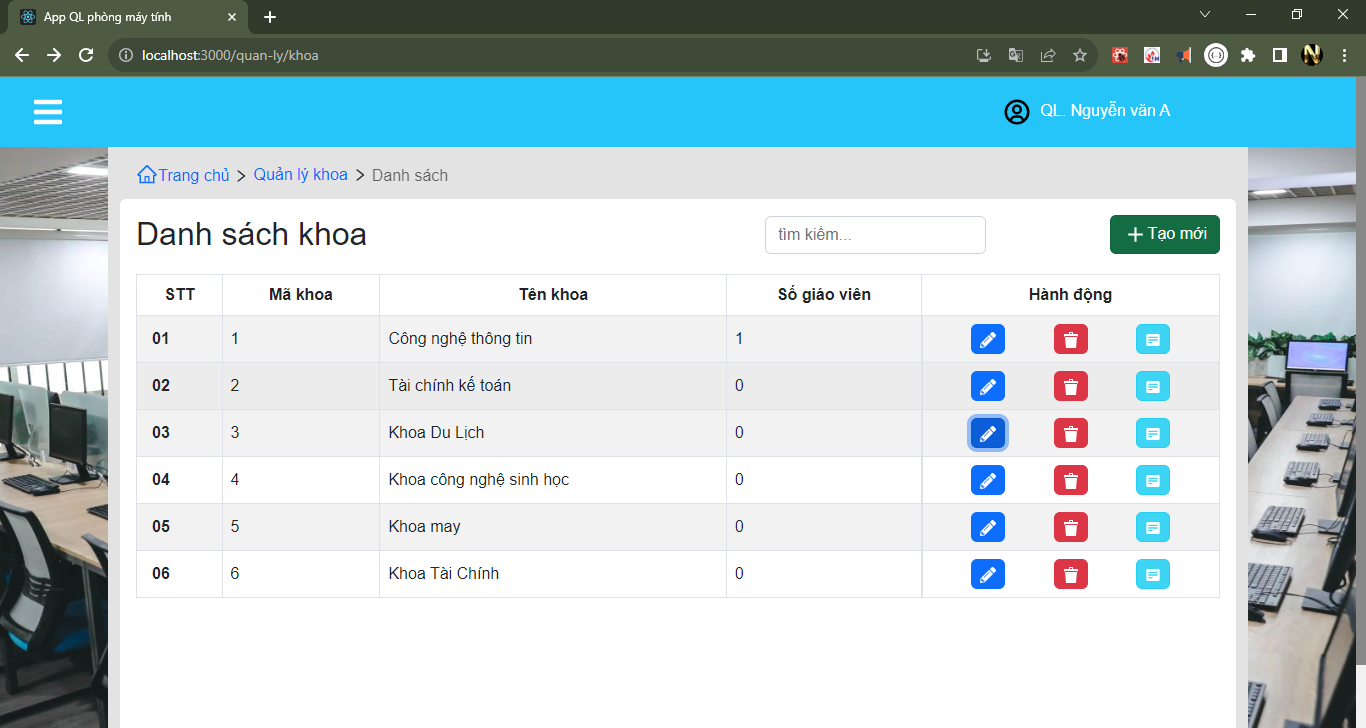
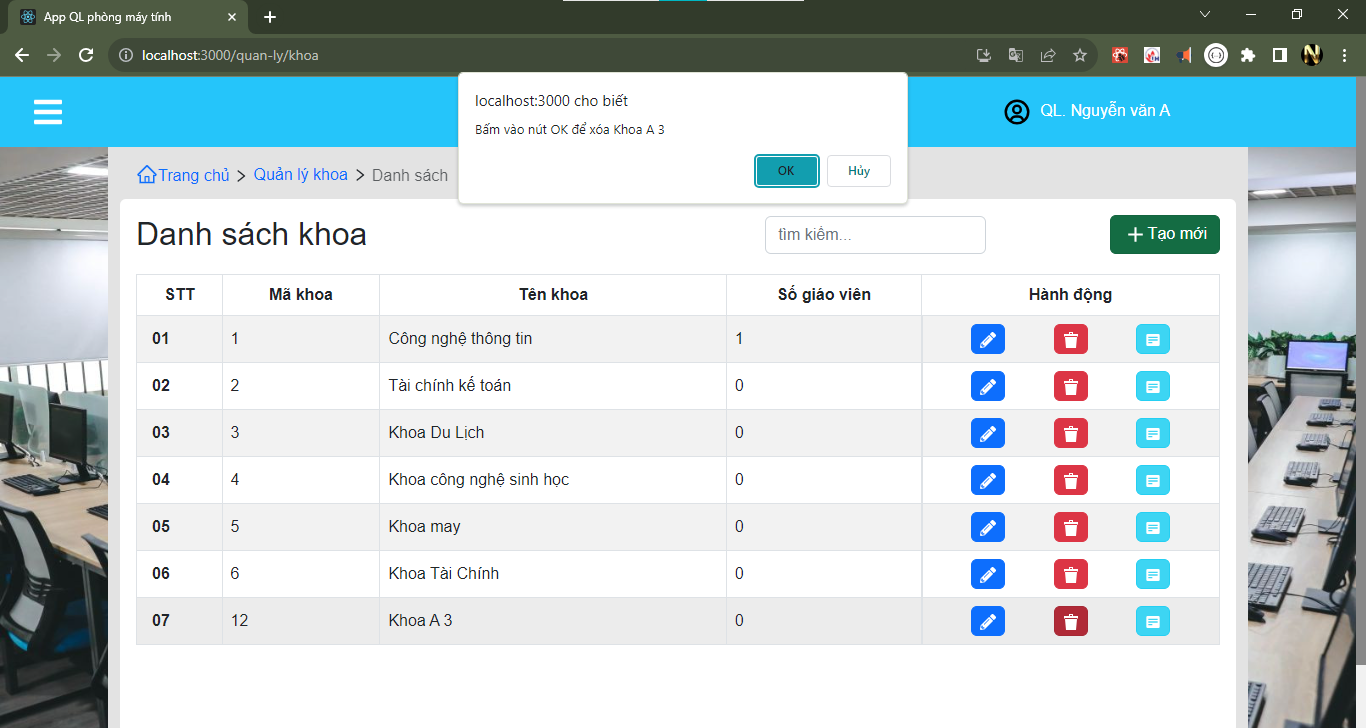
PageQLKhoa: add delete api

diff --git a/src/components/layout/Edit/FormUpdateKhoaModal.jsx b/src/components/layout/Edit/FormUpdateKhoaModal.jsx
@@ -1,7 +1,10 @@
 import React, { useEffect, useRef, useState } from "react";
 import { FaPencilAlt } from "react-icons/fa";
 import { useDispatch, useSelector } from "react-redux";
-import { insertKhoaApi, updateKhoaApi } from "../../../redux/reducers/khoaReducer";
+import {
+  insertKhoaApi,
+  updateKhoaApi,
+} from "../../../redux/reducers/khoaReducer";
 
 export default function FormUpdateKhoaModal({ arrKhoa, objKhoa, keyModal }) {
   const dispatch = useDispatch();
@@ -17,22 +20,23 @@ export default function FormUpdateKhoaModal({ arrKhoa, objKhoa, keyModal }) {
       setErrKhoa({ ...errKhoa, errName: "Hãy nhập dữ liệu!" });
       return;
     }
+    //
+    let a = true;
+    for (let i = 0; i < arrKhoa.length; i++) {
+      const element = arrKhoa[i];
 
-    // let a = true;
-    // arrKhoa.forEach((item) => {
-    //   console.log("🚀 ~ file: FormUpdateKhoaModal.jsx:22 ~ arrKhoa.forEach ~ item:", item)
-    //   if (itemKhoaRef.current.tenKhoa.includes(item.tenKhoa)) {
-    //     alert("Trùng tên khoa!");
-    //     return;
-    //   }
-    // });
-
-    if (
-      itemKhoaRef.current.tenKhoa.toLowerCase() == objKhoa.tenKhoa.toLowerCase()
-    ) {
-      alert("Trùng tên khoa!");
-      return;
+      if (
+        itemKhoaRef.current.tenKhoa.toLowerCase() ==
+        element.tenKhoa.toLowerCase()
+      ) {
+        a = false;
+        alert("Trùng tên khoa!");
+        break;
+      }
     }
+    if (!a) return;
+    //
+
     setErrKhoa({ ...errKhoa, errName: "" });
 
     dispatch(updateKhoaApi(itemKhoaRef.current));
@@ -40,7 +44,7 @@ export default function FormUpdateKhoaModal({ arrKhoa, objKhoa, keyModal }) {
   //
   const handleChangeTenKhoa = (e) => {
     let { id, value } = e.target;
-    itemKhoaRef.current[id] = value;
+    itemKhoaRef.current.tenKhoa = value;
     if (value.trim().length === 0) {
       setErrKhoa({ ...errKhoa, errName: "Hãy nhập dữ liệu!" });
     } else {

diff --git a/src/redux/reducers/khoaReducer.jsx b/src/redux/reducers/khoaReducer.jsx
@@ -61,6 +61,18 @@ const khoaReducer = createSlice({
       let { arrKhoa, valueSearch } = state;
       state.arrKhoaSearch = dataSearch(arrKhoa, valueSearch);
     },
+    deleteKhoaAction: (state, action) => {
+      let maXoa = action.payload;
+
+      let arrUpdate = state.arrKhoa.filter((item) => {
+        return item.maKhoa !== maXoa;
+      });
+
+      state.arrKhoa = [...arrUpdate];
+
+      let { arrKhoa, valueSearch } = state;
+      state.arrKhoaSearch = dataSearch(arrKhoa, valueSearch);
+    },
   },
 });
 // exp nay de sử dụng theo cách 2
@@ -69,10 +81,26 @@ export const {
   setValueSearchKhoa,
   insertKhoaAction,
   updateKhoaAction,
+  deleteKhoaAction,
 } = khoaReducer.actions;
 export default khoaReducer.reducer;
 
 // -------------- Call Api -------------------
+
+/**
+ * delete KhoaApi by id
+ */
+export const deleteKhoaApi = (maXoa) => {
+  return async (dispatch) => {
+    try {
+      await http.delete(`/XoaKhoa/${maXoa}`)
+
+      dispatch(deleteKhoaAction(maXoa));
+    } catch (error) {
+      console.log("🚀 ~ file: khoaReducer.jsx:85 ~ return ~ error:", error);
+    }
+  };
+};
 
 /**
  * edit 1 Khoa

diff --git a/src/pages/PageQuanLy/PageQLKhoa.jsx b/src/pages/PageQuanLy/PageQLKhoa.jsx
@@ -10,6 +10,7 @@ import NavTab from "../../components/common/NavTab/NavTab";
 import { NavLink } from "react-router-dom";
 import { useDispatch, useSelector } from "react-redux";
 import {
+  deleteKhoaApi,
   getAllKhoaApi,
   setObjUpdateKhoaAction,
   setValueSearchKhoa,
@@ -55,7 +56,9 @@ export default function PageQLKhoa() {
 
             <button
               onClick={() => {
-                alert(`Del -- ${item.id} -- dang cập nhật!`);
+                if(window.confirm("Bấm vào nút OK để xóa " + item.tenKhoa)){
+                  dispatch(deleteKhoaApi(item.maKhoa));
+                }
               }}
               type="button"
               className="btn btn-danger mx-2 px-2"
